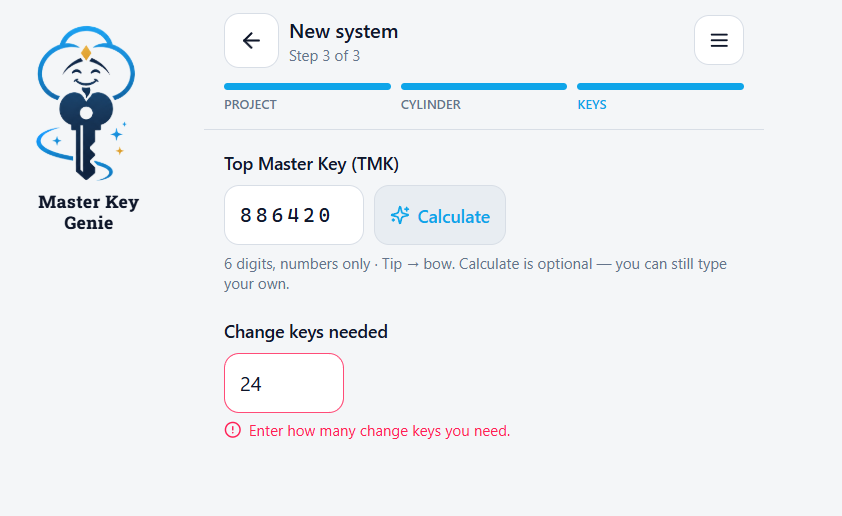
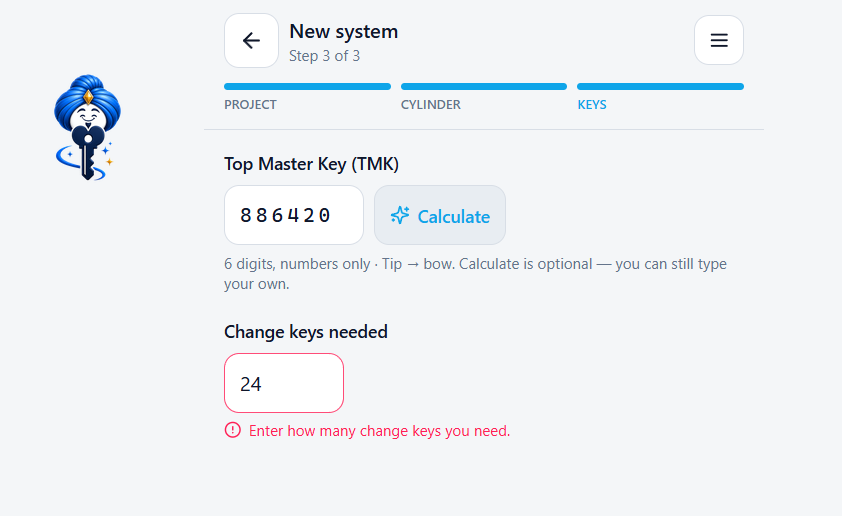
Update Master Key Genie branding and marketing screenshots.
Swap in the new logo lockup across site marks, favicon, and homepage product shots, and keep the brand asset helper scripts.

Changed region(s): [[0.0309, 0.031, 0.1853, 0.4651], [0.1544, 0.124, 0.1853, 0.155]]

diff --git a/css/styles.css b/css/styles.css
@@ -1002,7 +1002,7 @@ p:last-child {
 }
 
 .footer-meta img {
-  height: 56px;
+  height: 112px;
   width: auto;
   margin-top: 0.75rem;
   opacity: 0.9;

diff --git a/scripts/regen_brand_assets.py b/scripts/regen_brand_assets.py
@@ -1,0 +1,194 @@
+"""Regenerate brand-mark, favicon, and icon from assets/logo.png."""
+from __future__ import annotations
+
+from collections import deque
+from pathlib import Path
+
+import numpy as np
+from PIL import Image
+
+ROOT = Path(__file__).resolve().parents[1]
+ASSETS = ROOT / "assets"
+LOGO = ASSETS / "logo.png"
+
+
+def content_mask(arr: np.ndarray, thresh: int = 245) -> np.ndarray:
+    return ~((arr[:, :, 0] > thresh) & (arr[:, :, 1] > thresh) & (arr[:, :, 2] > thresh))
+
+
+def bbox(mask: np.ndarray) -> tuple[int, int, int, int]:
+    rows = np.any(mask, axis=1)
+    cols = np.any(mask, axis=0)
+    ys = np.where(rows)[0]
+    xs = np.where(cols)[0]
+    return int(xs[0]), int(ys[0]), int(xs[-1]), int(ys[-1])
+
+
+def find_mark_bottom(row_counts: np.ndarray, r0: int, r1: int) -> int:
+    kernel = 5
+    smooth = np.convolve(row_counts.astype(float), np.ones(kernel) / kernel, mode="same")
+    upper = smooth[r0 : r0 + int((r1 - r0) * 0.7)]
+    peak_y = r0 + int(np.argmax(upper))
+    peak_val = float(upper.max())
+    threshold = max(8.0, peak_val * 0.02)
+
+    y = peak_y
+    while y <= r1:
+        if smooth[y] < threshold:
+            start = y
+            while y <= r1 and smooth[y] < threshold:
+                y += 1
+            if y - start >= 12:
+                return start - 1
+        else:
+            y += 1
+    return r0 + int((r1 - r0) * 0.62)
+
+
+def background_mask_flood(arr: np.ndarray, thresh: int = 248) -> np.ndarray:
+    """True where pixels are background (near-white reachable from image edges).
+
+    Preserves interior whites (e.g. the genie face) that are enclosed by color.
+    """
+    h, w = arr.shape[:2]
+    near_white = (arr[:, :, 0] >= thresh) & (arr[:, :, 1] >= thresh) & (arr[:, :, 2] >= thresh)
+    bg = np.zeros((h, w), dtype=bool)
+    q: deque[tuple[int, int]] = deque()
+
+    def try_push(y: int, x: int) -> None:
+        if 0 <= y < h and 0 <= x < w and near_white[y, x] and not bg[y, x]:
+            bg[y, x] = True
+            q.append((y, x))
+
+    for x in range(w):
+        try_push(0, x)
+        try_push(h - 1, x)
+    for y in range(h):
+        try_push(y, 0)
+        try_push(y, w - 1)
+
+    while q:
+        y, x = q.popleft()
+        try_push(y - 1, x)
+        try_push(y + 1, x)
+        try_push(y, x - 1)
+        try_push(y, x + 1)
+
+    return bg
+
+
+def dilate(mask: np.ndarray, iterations: int = 1) -> np.ndarray:
+    out = mask.copy()
+    for _ in range(iterations):
+        padded = np.pad(out, 1, mode="constant", constant_values=False)
+        neigh = (
+            padded[:-2, 1:-1]
+            | padded[2:, 1:-1]
+            | padded[1:-1, :-2]
+            | padded[1:-1, 2:]
+            | padded[:-2, :-2]
+            | padded[:-2, 2:]
+            | padded[2:, :-2]
+            | padded[2:, 2:]
+        )
+        out = out | neigh
+    return out
+
+
+def to_rgba_knockout_bg(im: Image.Image, thresh: int = 248) -> Image.Image:
+    rgb = im.convert("RGB")
+    arr = np.array(rgb)
+    bg = background_mask_flood(arr, thresh=thresh)
+
+    alpha = np.full((arr.shape[0], arr.shape[1]), 255, dtype=np.uint8)
+    alpha[bg] = 0
+
+    # Feather only anti-aliased edge pixels that touch the background —
+    # never interior whites like the genie face.
+    min_channel = arr.min(axis=2).astype(np.int16)
+    edge_band = dilate(bg, iterations=2) & ~bg
+    fringe = edge_band & (min_channel >= 230)
+    fringe_alpha = np.clip((255 - min_channel) * (255 / 25), 0, 255).astype(np.uint8)
+    alpha = np.where(fringe, np.minimum(alpha, fringe_alpha), alpha)
+
+    rgba = np.dstack([arr, alpha])
+    return Image.fromarray(rgba, "RGBA")
+
+
+def make_square(rgba: Image.Image, size: int, pad_ratio: float = 0.08) -> Image.Image:
+    arr = np.array(rgba)
+    alpha = arr[:, :, 3] > 8
+    if not np.any(alpha):
+        return Image.new("RGBA", (size, size), (0, 0, 0, 0))
+
+    x0, y0, x1, y1 = bbox(alpha)
+    cropped = rgba.crop((x0, y0, x1 + 1, y1 + 1))
+    cw, ch = cropped.size
+    max_side = max(cw, ch)
+    pad = int(max_side * pad_ratio)
+    canvas_side = max_side + pad * 2
+    canvas = Image.new("RGBA", (canvas_side, canvas_side), (0, 0, 0, 0))
+    ox = (canvas_side - cw) // 2
+    oy = (canvas_side - ch) // 2
+    canvas.paste(cropped, (ox, oy), cropped)
+    return canvas.resize((size, size), Image.Resampling.LANCZOS)
+
+
+def main() -> None:
+    logo = Image.open(LOGO).convert("RGB")
+    arr = np.array(logo)
+    mask = content_mask(arr)
+    c0, r0, c1, r1 = bbox(mask)
+    row_counts = mask.sum(axis=1)
+    mark_bottom = find_mark_bottom(row_counts, r0, r1)
+
+    print(f"logo size: {logo.size}")
+    print(f"content bbox: x={c0}-{c1}, y={r0}-{r1}")
+    print(f"mark bottom row: {mark_bottom}")
+
+    mark_mask = mask[r0 : mark_bottom + 1, :]
+    cols = np.any(mark_mask, axis=0)
+    xs = np.where(cols)[0]
+    mx0, mx1 = int(xs[0]), int(xs[-1])
+
+    pad = 8
+    crop_box = (
+        max(0, mx0 - pad),
+        max(0, r0 - pad),
+        min(logo.width, mx1 + 1 + pad),
+        min(logo.height, mark_bottom + 1 + pad),
+    )
+    mark_rgb = logo.crop(crop_box)
+    print(f"mark crop: {crop_box} -> {mark_rgb.size}")
+
+    mark_rgba = to_rgba_knockout_bg(mark_rgb)
+
+    brand = make_square(mark_rgba, 1024, pad_ratio=0.06)
+    brand_path = ASSETS / "brand-mark.png"
+    brand.save(brand_path, optimize=True)
+    print(f"wrote {brand_path} {brand.size}")
+
+    icon_mark = make_square(mark_rgba, 900, pad_ratio=0.04)
+    icon = Image.new("RGBA", (1024, 1024), (255, 255, 255, 255))
+    ox = (1024 - icon_mark.width) // 2
+    oy = (1024 - icon_mark.height) // 2
+    icon.paste(icon_mark, (ox, oy), icon_mark)
+    icon_path = ASSETS / "icon.png"
+    icon.convert("RGB").save(icon_path, optimize=True)
+    print(f"wrote {icon_path} {icon.size}")
+
+    fav = make_square(mark_rgba, 96, pad_ratio=0.05)
+    fav_path = ASSETS / "favicon.png"
+    fav.save(fav_path, optimize=True)
+    print(f"wrote {fav_path} {fav.size}")
+
+    preview = ASSETS / "_mark-crop-preview.png"
+    # Checkerboard-style preview on mid gray so white face is visible
+    prev = Image.new("RGBA", mark_rgba.size, (180, 180, 180, 255))
+    prev.paste(mark_rgba, (0, 0), mark_rgba)
+    prev.convert("RGB").save(preview)
+    print(f"wrote {preview} {prev.size}")
+
+
+if __name__ == "__main__":
+    main()

diff --git a/scripts/patch_screenshot_logos.py b/scripts/patch_screenshot_logos.py
@@ -1,0 +1,114 @@
+"""Locate and replace old Genie marks in marketing screenshots."""
+from __future__ import annotations
+
+from pathlib import Path
+
+import numpy as np
+from PIL import Image
+
+ROOT = Path(__file__).resolve().parents[1]
+SHOTS = ROOT / "assets" / "screenshots"
+MARK = ROOT / "assets" / "brand-mark.png"
+
+# Manually tuned cover rects (x, y, w, h) after probing — overwritten by detect
+# if detection succeeds with a reasonable size.
+TARGETS = {
+    "windows_homescreen.png": {
+        "search": (0, 0, 220, 240),
+        "pad": 8,
+    },
+    # Gutter brand sits near calc(50% - 14rem - 17rem), not the far-left edge.
+    "windows_project_screen.png": {
+        "search": (280, 70, 180, 230),
+        "pad": 10,
+    },
+    "master_key_genie.png": {
+        "search": (0, 0, 200, 240),
+        "pad": 8,
+    },
+}
+
+
+def brand_mask(rgb: np.ndarray) -> np.ndarray:
+    r, g, b = rgb[:, :, 0], rgb[:, :, 1], rgb[:, :, 2]
+    white = (r > 240) & (g > 240) & (b > 240)
+    blue = (b > r + 15) & (b > g) & (b > 70) & ~white
+    navy = (b >= r) & (r < 90) & (b < 160) & ((r.astype(int) + g + b) < 280)
+    gold = (r > 150) & (g > 90) & (g < 230) & (b < 110) & (r > g)
+    # light blue outline / sparkles
+    cyan = (b > 150) & (g > 120) & (r < 140) & (b > r + 30)
+    return blue | navy | gold | cyan
+
+
+def detect_bbox(im: Image.Image, search: tuple[int, int, int, int], pad: int):
+    arr = np.array(im.convert("RGBA"))
+    x, y, w, h = search
+    roi = arr[y : y + h, x : x + w, :3]
+    mask = brand_mask(roi)
+    ys, xs = np.where(mask)
+    if len(xs) == 0:
+        return None
+    x0, x1 = int(xs.min()), int(xs.max())
+    y0, y1 = int(ys.min()), int(ys.max())
+    # Expand slightly and clamp
+    gx0 = max(0, x + x0 - pad)
+    gy0 = max(0, y + y0 - pad)
+    gx1 = min(im.width - 1, x + x1 + pad)
+    gy1 = min(im.height - 1, y + y1 + pad)
+    return gx0, gy0, gx1 - gx0 + 1, gy1 - gy0 + 1
+
+
+def sample_bg(im: Image.Image, box: tuple[int, int, int, int]) -> tuple[int, int, int, int]:
+    """Sample a nearby background pixel just outside the mark."""
+    arr = np.array(im.convert("RGBA"))
+    x, y, w, h = box
+    candidates = [
+        (x + w + 4, y + 4),
+        (x + w + 4, y + h // 2),
+        (max(0, x - 4), y + 4),
+        (x + 4, max(0, y - 4)),
+    ]
+    for cx, cy in candidates:
+        if 0 <= cx < im.width and 0 <= cy < im.height:
+            px = arr[cy, cx]
+            # Prefer light surfaces
+            if int(px[0]) > 200 and int(px[1]) > 200 and int(px[2]) > 200:
+                return tuple(int(v) for v in px)
+    # fallback surface
+    return (248, 250, 252, 255)
+
+
+def replace_mark(path: Path, search: tuple[int, int, int, int], pad: int, mark: Image.Image):
+    im = Image.open(path).convert("RGBA")
+    box = detect_bbox(im, search, pad)
+    if box is None:
+        raise SystemExit(f"Could not find old mark in {path.name}")
+    x, y, w, h = box
+    print(f"{path.name}: replace @ ({x},{y}) {w}x{h}")
+
+    bg = sample_bg(im, box)
+    # Cover old mark with background rectangle (slightly larger)
+    cover = Image.new("RGBA", (w, h), bg)
+    im.paste(cover, (x, y))
+
+    # Fit new mark into the same box, contain, centered
+    mark_rgba = mark.convert("RGBA")
+    # Use the larger dimension so the turban mark fills similarly
+    fitted = mark_rgba.copy()
+    fitted.thumbnail((w, h), Image.Resampling.LANCZOS)
+    px = x + (w - fitted.width) // 2
+    py = y + (h - fitted.height) // 2
+    im.alpha_composite(fitted, (px, py))
+    im.convert("RGB").save(path, optimize=True)
+    print(f"  wrote {path}")
+
+
+def main():
+    mark = Image.open(MARK)
+    print("mark", mark.size, mark.mode)
+    for name, cfg in TARGETS.items():
+        replace_mark(SHOTS / name, cfg["search"], cfg["pad"], mark)
+
+
+if __name__ == "__main__":
+    main()
